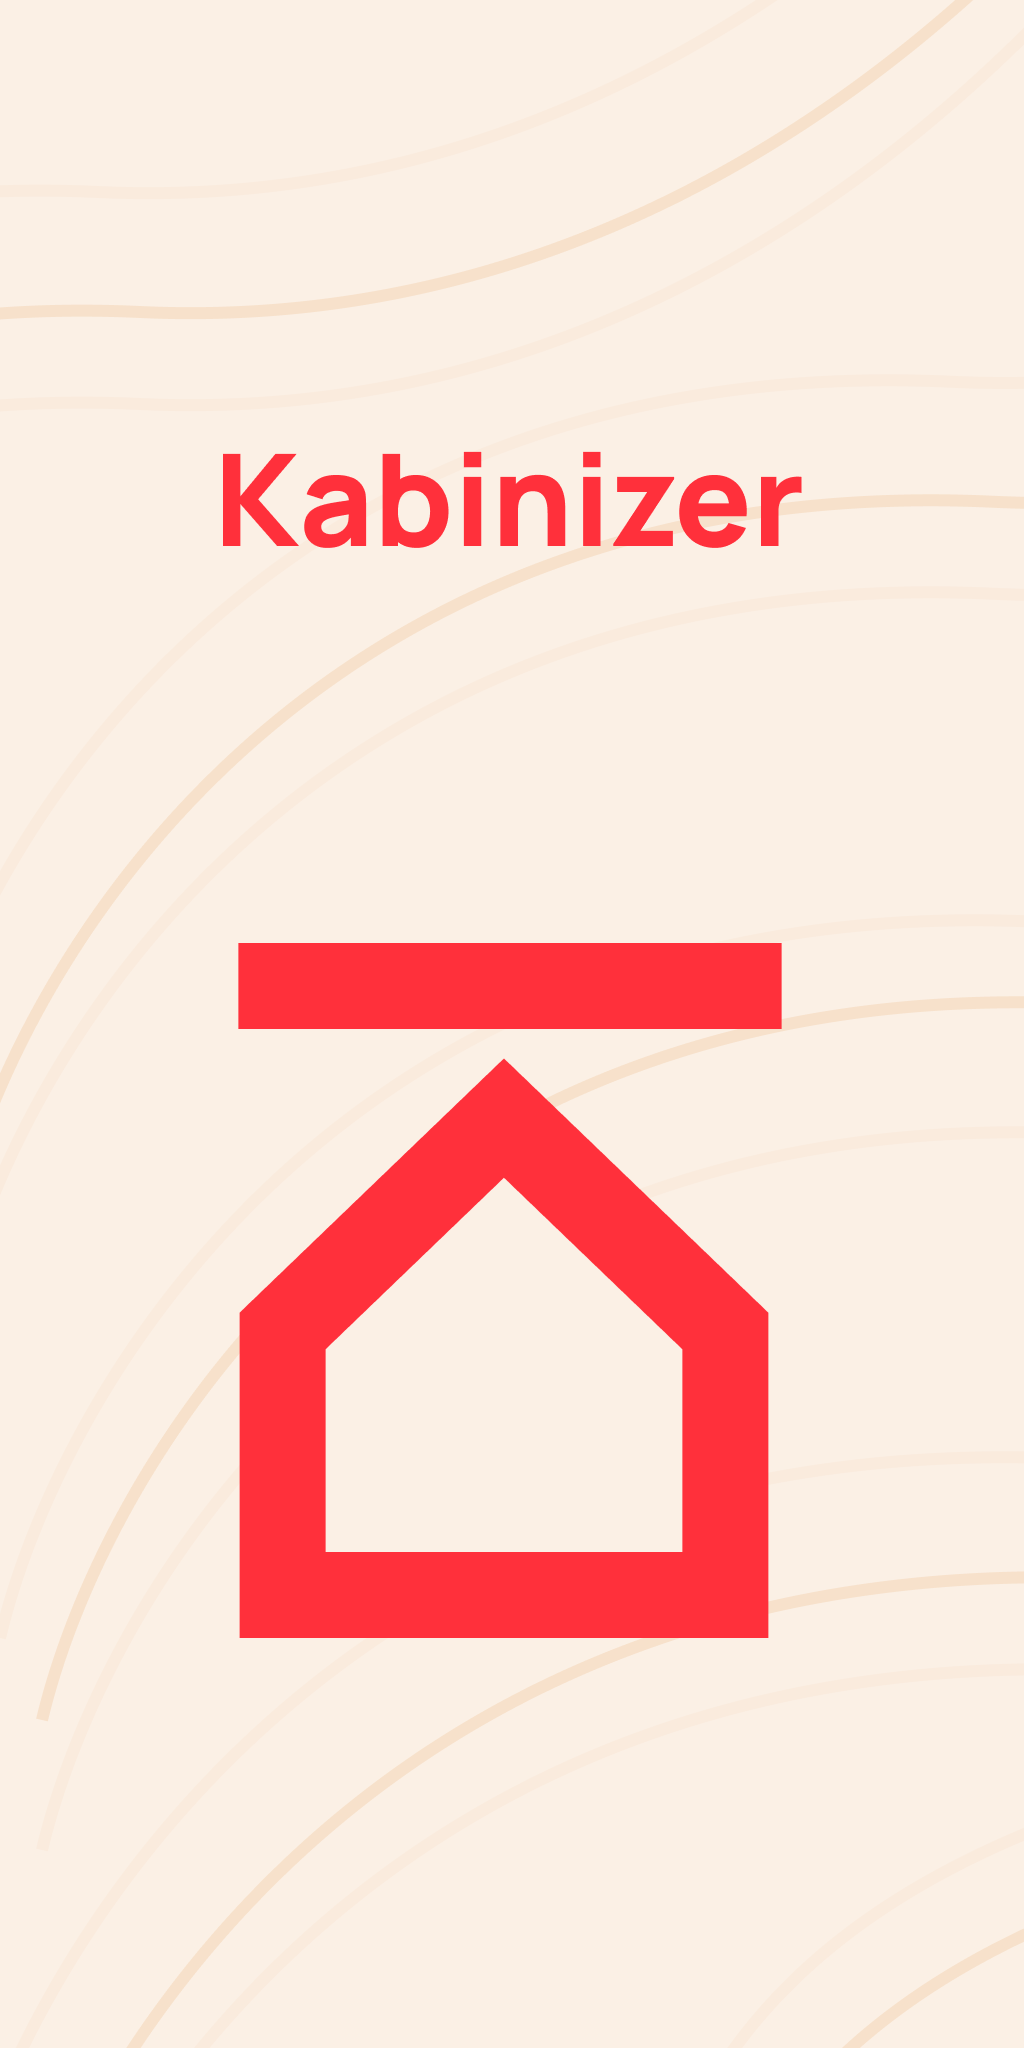
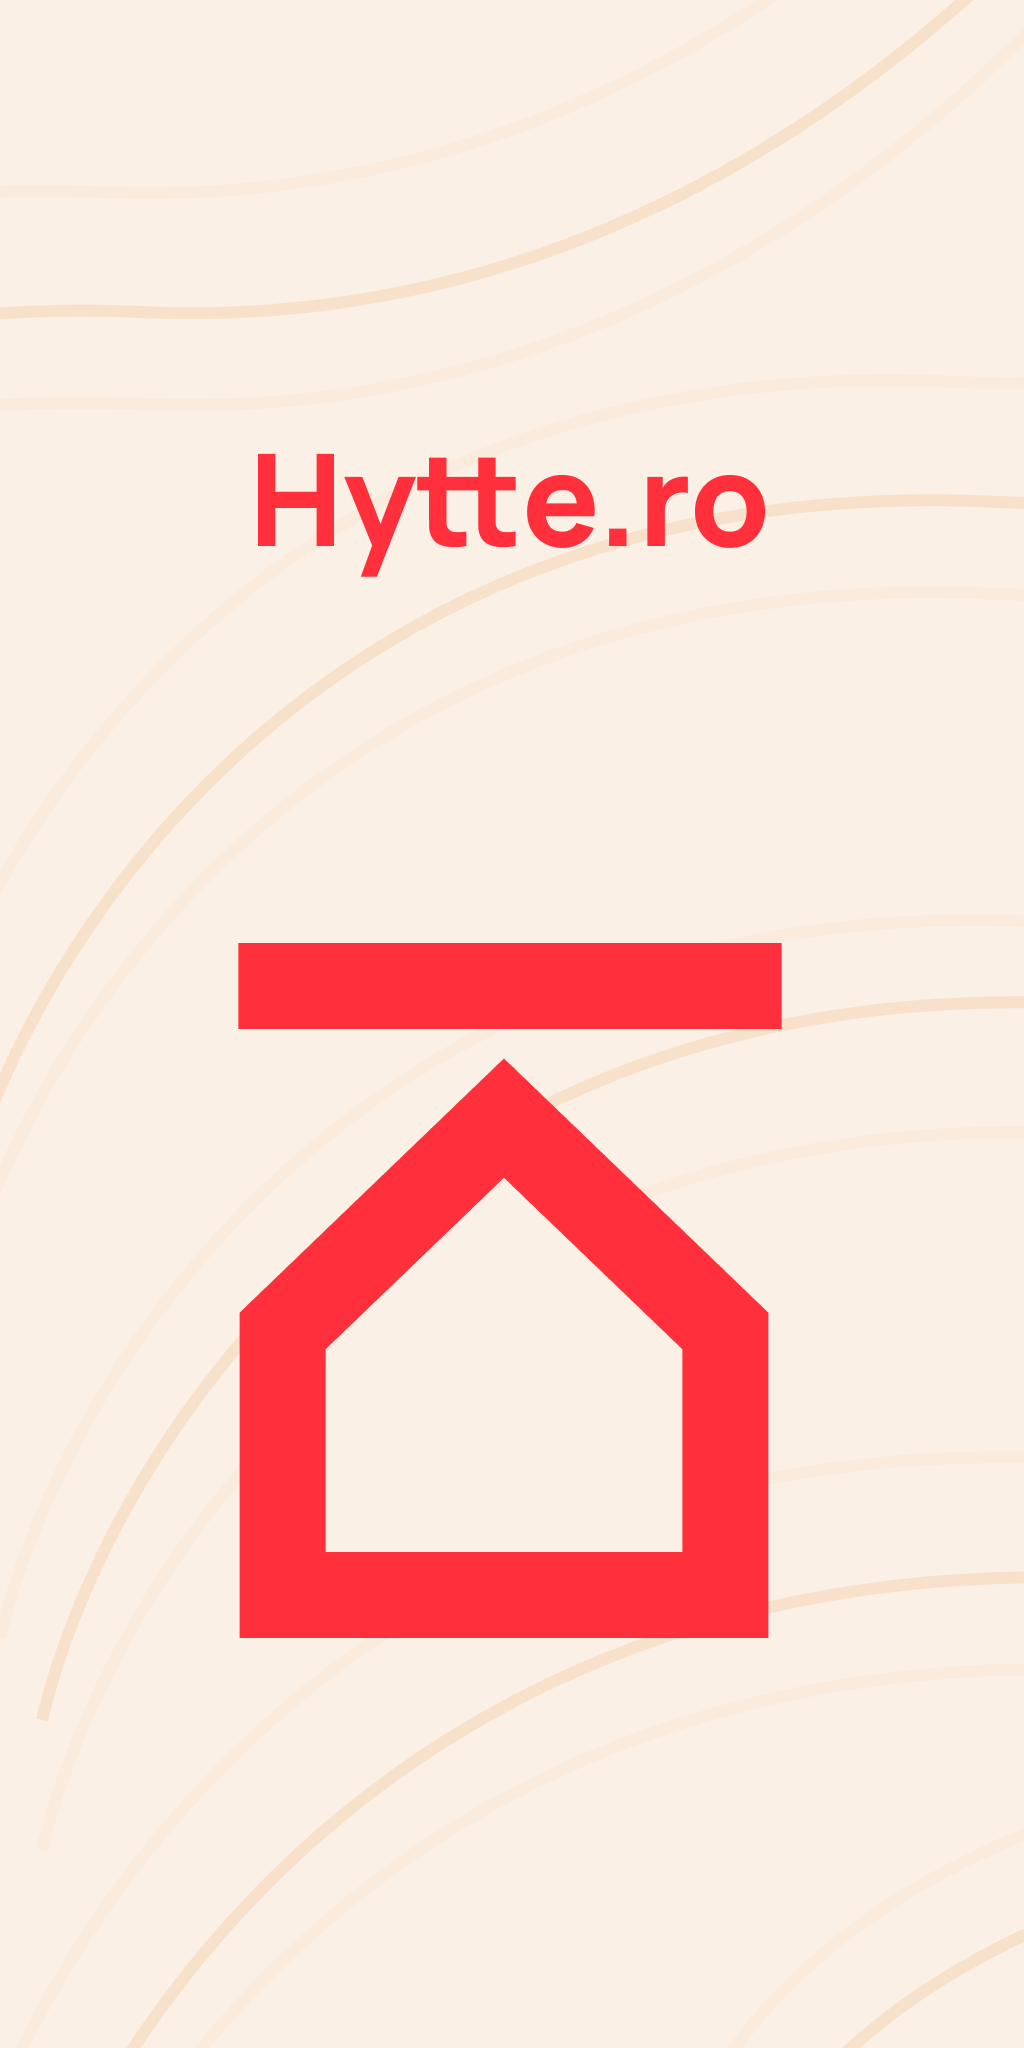
adjust wip navbar + kabinizer no more

Changed region(s): [[0.2188, 0.2188, 0.7812, 0.2812]]

diff --git a/kabinizer-front-end/src/routes/root.tsx b/kabinizer-front-end/src/routes/root.tsx
@@ -6,60 +6,83 @@ export default function Root() {
       <div className="flex justify-center bg-gray-100">
         {/*Todo: implement a outlet here*/}
         {/*<Outlet />*/}
-        <nav className="btm-nav">
+        <nav className="btm-nav mb-2 mt-2">
           <Link
             to="/cabin-booking"
-            className="active border-miles-red-500 bg-gray-50 text-miles-red-500"
+            className="ite m-2 flex flex-col items-center rounded border-2"
           >
             <svg
-              xmlns="http://www.w3.org/2000/svg"
-              className="h-5 w-5"
+              width="27"
+              height="26"
+              viewBox="0 0 27 26"
               fill="none"
-              viewBox="0 0 24 24"
-              stroke="currentColor"
+              xmlns="http://www.w3.org/2000/svg"
             >
               <path
-                strokeLinecap="round"
-                strokeLinejoin="round"
-                strokeWidth="2"
-                d="M9 19v-6a2 2 0 00-2-2H5a2 2 0 00-2 2v6a2 2 0 002 2h2a2 2 0 002-2zm0 0V9a2 2 0 012-2h2a2 2 0 012 2v10m-6 0a2 2 0 002 2h2a2 2 0 002-2m0 0V5a2 2 0 012-2h2a2 2 0 012 2v14a2 2 0 01-2 2h-2a2 2 0 01-2-2z"
+                d="M26.1039 10.8V5.6C26.1039 4.157 24.9339 3 23.5039 3H2.70388C1.27388 3 0.116882 4.157 0.116882 5.6V10.8C1.54688 10.8 2.70388 11.97 2.70388 13.4C2.70388 14.83 1.54688 16 0.103882 16V21.2C0.103882 22.63 1.27388 23.8 2.70388 23.8H23.5039C24.9339 23.8 26.1039 22.63 26.1039 21.2V16C24.6739 16 23.5039 14.83 23.5039 13.4C23.5039 11.97 24.6739 10.8 26.1039 10.8ZM14.4039 20.55H11.8039V17.95H14.4039V20.55ZM14.4039 14.7H11.8039V12.1H14.4039V14.7ZM14.4039 8.85H11.8039V6.25H14.4039V8.85Z"
+                fill="#450D21"
               />
             </svg>
-            <span className="btm-nav-label">Ønsker</span>
+            <p className="btm-nav-label">Ønsker</p>
           </Link>
-          <Link to="/at-the-cabin" className="bg-gray-50 text-miles-red-900">
+          <Link
+            to="/check-in-and-out"
+            className="ite m-2 flex flex-col items-center rounded border-2"
+          >
             <svg
-              xmlns="http://www.w3.org/2000/svg"
-              className="h-5 w-5"
+              width="27"
+              height="26"
+              viewBox="0 0 27 26"
               fill="none"
-              viewBox="0 0 24 24"
-              stroke="currentColor"
+              xmlns="http://www.w3.org/2000/svg"
             >
               <path
-                strokeLinecap="round"
-                strokeLinejoin="round"
-                strokeWidth="2"
-                d="M3 12l2-2m0 0l7-7 7 7M5 10v10a1 1 0 001 1h3m10-11l2 2m-2-2v10a1 1 0 01-1 1h-3m-6 0a1 1 0 001-1v-4a1 1 0 011-1h2a1 1 0 011 1v4a1 1 0 001 1m-6 0h6"
+                d="M7.33447 16.8459C8.33872 16.8459 9.19233 16.4944 9.89531 15.7914C10.5983 15.0885 10.9498 14.2348 10.9498 13.2306C10.9498 12.2263 10.5983 11.3727 9.89531 10.6698C9.19233 9.96678 8.33872 9.6153 7.33447 9.6153C6.33022 9.6153 5.47661 9.96678 4.77364 10.6698C4.07066 11.3727 3.71918 12.2263 3.71918 13.2306C3.71918 14.2348 4.07066 15.0885 4.77364 15.7914C5.47661 16.4944 6.33022 16.8459 7.33447 16.8459ZM7.33447 20.4612C5.32597 20.4612 3.61875 19.7582 2.2128 18.3523C0.806856 16.9463 0.103882 15.2391 0.103882 13.2306C0.103882 11.2221 0.806856 9.51487 2.2128 8.10892C3.61875 6.70297 5.32597 6 7.33447 6C8.96136 6 10.3826 6.46195 11.5981 7.38586C12.8128 8.30977 13.6612 9.45462 14.1433 10.8204H23.7238C23.8845 10.8204 24.0404 10.8505 24.1914 10.9108C24.3416 10.971 24.467 11.0514 24.5674 11.1518L25.7424 12.3268C25.8629 12.4473 25.9532 12.5826 26.0135 12.7329C26.0738 12.8839 26.1039 13.0398 26.1039 13.2005C26.1039 13.3611 26.079 13.5118 26.0292 13.6524C25.9786 13.793 25.893 13.9235 25.7725 14.044L22.6392 17.1773C22.5187 17.2978 22.3882 17.3882 22.2476 17.4484C22.107 17.5087 21.9563 17.5388 21.7957 17.5388C21.635 17.5388 21.4843 17.5135 21.3437 17.4629C21.2031 17.4131 21.0726 17.3279 20.9521 17.2074L19.3855 15.6408L17.8188 17.2074C17.6983 17.3279 17.5678 17.4131 17.4272 17.4629C17.2866 17.5135 17.1359 17.5388 16.9753 17.5388C16.8146 17.5388 16.6639 17.5135 16.5233 17.4629C16.3828 17.4131 16.2522 17.3279 16.1317 17.2074L14.5651 15.6408H14.1433C13.6412 17.0869 12.7675 18.2518 11.5222 19.1356C10.2769 20.0193 8.88101 20.4612 7.33447 20.4612Z"
+                fill="#450D21"
               />
             </svg>
-            <span className="btm-nav-label">På hytta</span>
+
+            <p className="btm-nav-label">Inn-/utsjekk</p>
           </Link>
-          <Link to="/info" className="bg-gray-50 text-miles-red-900">
+          <Link
+            to="/at-the-cabin"
+            className="ite m-2 flex flex-col items-center rounded border-2"
+          >
             <svg
-              xmlns="http://www.w3.org/2000/svg"
-              className="h-5 w-5"
+              width="27"
+              height="26"
+              viewBox="0 0 27 26"
               fill="none"
-              viewBox="0 0 24 24"
-              stroke="currentColor"
+              xmlns="http://www.w3.org/2000/svg"
             >
               <path
-                strokeLinecap="round"
-                strokeLinejoin="round"
-                strokeWidth="2"
-                d="M13 16h-1v-4h-1m1-4h.01M21 12a9 9 0 11-18 0 9 9 0 0118 0z"
+                d="M10.5039 24.1V16.3H15.7039V24.1H22.2039V13.7H26.1039L13.1039 2L0.103882 13.7H4.00388V24.1H10.5039Z"
+                fill="#450D21"
               />
             </svg>
-            <span className="btm-nav-label">Info</span>
+            <p className="btm-nav-label">På hytta</p>
+          </Link>
+          <Link
+            to="/info"
+            className="ite m-2 flex flex-col items-center rounded border-2"
+          >
+            <svg
+              width="27"
+              height="26"
+              viewBox="0 0 27 26"
+              fill="none"
+              xmlns="http://www.w3.org/2000/svg"
+            >
+              <path
+                d="M13.7272 13C16.7647 13 19.2272 10.5376 19.2272 7.5C19.2272 4.46243 16.7647 2 13.7272 2C10.6896 2 8.22717 4.46243 8.22717 7.5C8.22717 10.5376 10.6896 13 13.7272 13Z"
+                fill="#450D21"
+              />
+              <path
+                d="M22.5137 16.5201C20.2037 15.3376 17.2062 14.3751 13.7274 14.3751C10.2487 14.3751 7.25117 15.3376 4.94117 16.5201C3.56617 17.2213 2.72742 18.6376 2.72742 20.1776V24.0001H24.7274V20.1776C24.7274 18.6376 23.8887 17.2213 22.5137 16.5201Z"
+                fill="#450D21"
+              />
+            </svg>
+            <p className="btm-nav-label">Min hytteID</p>
           </Link>
         </nav>
       </div>

diff --git a/kabinizer-front-end/src/components/Logo.tsx b/kabinizer-front-end/src/components/Logo.tsx
@@ -1,7 +1,7 @@
 const Logo = () => {
   return (
     <div className="pb-8 text-4xl font-extrabold text-miles-red-500">
-      Kabinizer
+      Hytte.ro
     </div>
   );
 };
